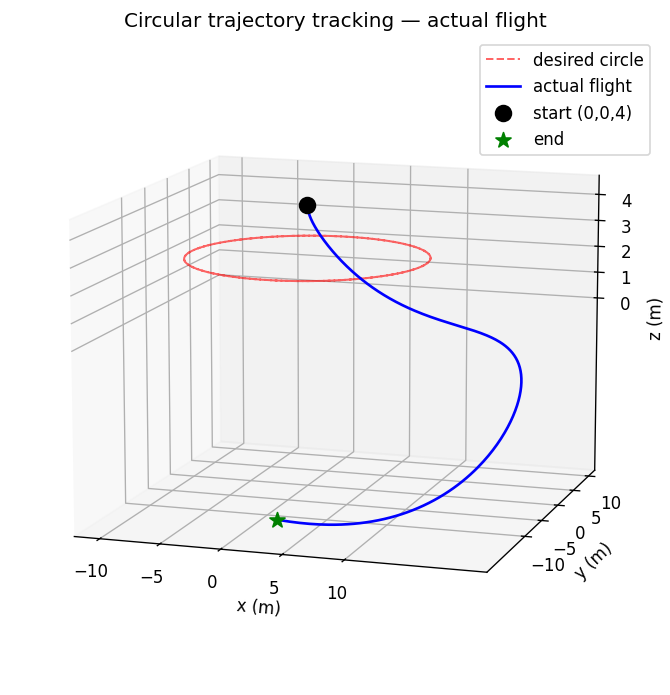
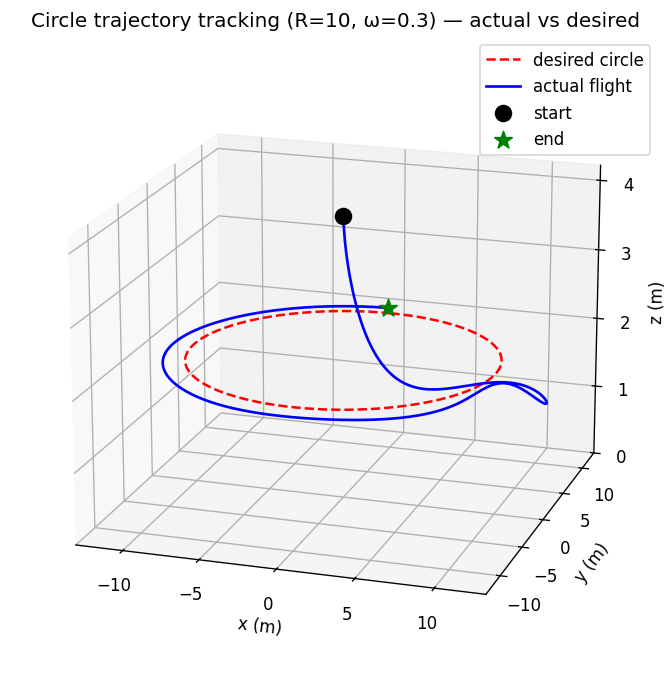
Complete circle scenario: Fig.6 Trajectory, observer (all states), U1-U4 validation, 3D path

diff --git a/scenarios/circle/plot_circle_3d.py b/scenarios/circle/plot_circle_3d.py
@@ -1,0 +1,43 @@
+"""3D flight path: actual circle-tracking vs desired circle."""
+import sys, os
+sys.path.append(os.path.dirname(os.path.dirname(os.path.dirname(os.path.abspath(__file__)))))
+
+import numpy as np
+from scipy.integrate import solve_ivp
+import matplotlib.pyplot as plt
+from mpl_toolkits.mplot3d import Axes3D  # noqa
+
+from core.generate_quadrotor_data import quadrotor_dynamics
+from simulate_circle import full_control_circle
+from circle_reference import circular_reference, OMEGA
+
+# simulate one clean flight (start on the circle)
+
+x0 = np.zeros(12)
+x0[0], x0[1], x0[2] = 0.0, 0.0, 4.0  # Table 5 initial position (0,0,4) 
+x0[6], x0[7], x0[8] = 0.087, 0.1042, 0.209 # Table 5 initial angles (roll, pitch, yaw)    
+ 
+t_end = 2*np.pi/OMEGA            # one full loop
+t_eval = np.arange(0.0, t_end, 0.01)
+sol = solve_ivp(lambda t, x: quadrotor_dynamics(t, x, full_control_circle(t, x)),
+                (0.0, t_end), x0, t_eval=t_eval, max_step=0.02)
+x, y, z = sol.y[0], sol.y[1], sol.y[2]
+
+# desired circle
+P = np.array([circular_reference(t)[0] for t in t_eval])
+
+fig = plt.figure(figsize=(9, 7))
+ax = fig.add_subplot(111, projection='3d')
+ax.plot(P[:,0], P[:,1], P[:,2], 'r--', lw=1.5, label="desired circle")
+ax.plot(x, y, z, 'b-', lw=1.6, label="actual flight")
+ax.scatter(x[0], y[0], z[0], color='black', s=90, marker='o', label="start")
+ax.scatter(x[-1], y[-1], z[-1], color='green', s=120, marker='*', label="end")
+
+ax.set_xlabel("x (m)"); ax.set_ylabel("y (m)"); ax.set_zlabel("z (m)")
+ax.set_title("Circle trajectory tracking (R=10, ω=0.3) — actual vs desired")
+ax.set_xticks(np.arange(-10,11,5)); ax.set_yticks(np.arange(-10,11,5)); ax.set_zticks(np.arange(0,5,1))
+ax.legend(); ax.view_init(elev=18, azim=-72)
+
+os.makedirs("docs", exist_ok=True)
+plt.savefig("docs/circle_flight_3d.png", dpi=120, bbox_inches="tight")
+print("Saved -> docs/circle_flight_3d.png")

diff --git a/scenarios/circle/plot_circle_controls.py b/scenarios/circle/plot_circle_controls.py
@@ -1,0 +1,42 @@
+"""Plot U1-U4 control inputs over the circle flight (validation vs Singha)."""
+import sys, os
+sys.path.append(os.path.dirname(os.path.dirname(os.path.dirname(os.path.abspath(__file__)))))
+
+import numpy as np
+from scipy.integrate import solve_ivp
+import matplotlib.pyplot as plt
+
+from core.generate_quadrotor_data import quadrotor_dynamics
+from simulate_circle import full_control_circle
+from circle_reference import circular_reference, OMEGA
+
+# simulate one clean flight (Table 5 start: 0,0,4)
+x0 = np.zeros(12)
+x0[0], x0[1], x0[2] = 0.0, 0.0, 4.0
+x0[6], x0[7], x0[8] = 0.087, 0.1042, 0.209
+
+t_end = 2*np.pi/OMEGA
+t_eval = np.arange(0.0, t_end, 0.01)
+sol = solve_ivp(lambda t, x: quadrotor_dynamics(t, x, full_control_circle(t, x)),
+                (0.0, t_end), x0, t_eval=t_eval, max_step=0.02)
+
+# recompute U at each step
+U = np.array([full_control_circle(t_eval[k], sol.y[:,k]) for k in range(len(t_eval))])
+
+# plot the four control inputs
+fig, ax = plt.subplots(2, 2, figsize=(13, 7))
+labels = ["U1 (thrust) [N]", "U2 (roll torque) [N·m]", "U3 (pitch torque) [N·m]", "U4 (yaw torque) [N·m]"]
+for i, a in enumerate(ax.flat):
+    a.plot(t_eval, U[:, i], 'b-', lw=1.4)
+    a.set_title(labels[i]); a.set_xlabel("t (s)"); a.grid(alpha=0.3)
+ax[0,0].axhline(17.658, color='r', ls='--', alpha=0.5, label='hover (mg)')
+ax[0,0].legend()
+fig.suptitle("Circle trajectory — control inputs U1–U4", fontsize=14)
+fig.tight_layout()
+os.makedirs("docs", exist_ok=True)
+plt.savefig("docs/circle_controls.png", dpi=120, bbox_inches="tight")
+print("Saved -> docs/circle_controls.png")
+print(f"U1 range: [{U[:,0].min():.2f}, {U[:,0].max():.2f}]  (hover ~17.66 N)")
+print(f"U2 range: [{U[:,1].min():.3f}, {U[:,1].max():.3f}]")
+print(f"U3 range: [{U[:,2].min():.3f}, {U[:,2].max():.3f}]")
+print(f"U4 range: [{U[:,3].min():.3f}, {U[:,3].max():.3f}]")

diff --git a/scenarios/circle/generate_circle_data.py b/scenarios/circle/generate_circle_data.py
@@ -17,12 +17,16 @@ def generate_circle_dataset(N=50, dt=0.01, seed=0):
     all_traj, all_u = [], []
     for i in range(N):
         # start near the circle's t=0 point, with small random scatter
-        pos0, vel0, _ = circular_reference(0.0)
         x0 = np.zeros(12)
-        x0[0:3] = pos0 + rng.uniform(-0.5, 0.5, 3)   # small position scatter
-        x0[3:6] = vel0                                # match circle velocity
-        x0[6] = rng.normal(0, 0.05)                   # small tilt scatter
-        x0[7] = rng.normal(0, 0.05)
+        # Table 5 start (0,0,4) with small scatter for dataset variety  
+        x0[0] = 0.0 + rng.uniform(-1.0, 1.0)      # x near 0
+        x0[1] = 0.0 + rng.uniform(-1.0, 1.0)      # y near 0
+        x0[2] = 4.0 + rng.uniform(-0.5, 0.5)      # z near 4 (descends to circle)
+        x0[3:6] = 0.0                              # at rest (drone placed, not moving)
+        # Table 5 initial angles, with small scatter
+        x0[6] = 0.087  + rng.normal(0, 0.02)
+        x0[7] = 0.1042 + rng.normal(0, 0.02)
+        x0[8] = 0.209  + rng.normal(0, 0.02)
 
         sol = solve_ivp(
             lambda t, x: quadrotor_dynamics(t, x, full_control_circle(t, x)),

diff --git a/scenarios/circle/simulate_circle.py b/scenarios/circle/simulate_circle.py
@@ -54,13 +54,12 @@ def outer_loop_ff(x, U1, pos_d, vel_d, psi):
 
 
 # ===== simulate =====
+
 x0 = np.zeros(12)
-# ISOLATION TEST: teleport onto the circle at t=0, moving with it
-pos0, vel0, _ = circular_reference(0.0)      # circle's position & velocity at t=0
-x0[0], x0[1], x0[2] = pos0                    # pos = (0, 10, 2)
-x0[3], x0[4], x0[5] = vel0                    # vel = (10, 0, 0)  <- matches circle motion
-# small initial tilt (Singha angles), yaw matches yaw_reference(0)=0
-x0[6], x0[7], x0[8] = 0.087, 0.1042, 0.0
+# Table 5: circular trajectory initial position (0,0,4), initial angles (0.087, 0.1042, 0.209)
+x0[0], x0[1], x0[2] = 0.0, 0.0, 4.0          # start at (0,0,4) per Table 5
+x0[3], x0[4], x0[5] = 0.0, 0.0, 0.0          # at rest (drone placed, not moving)
+x0[6], x0[7], x0[8] = 0.087, 0.1042, 0.209   # Table 5 initial angles
 
 t_end = 4*np.pi                               # ~2 full circles
 t_eval = np.arange(0.0, t_end, 0.01)
